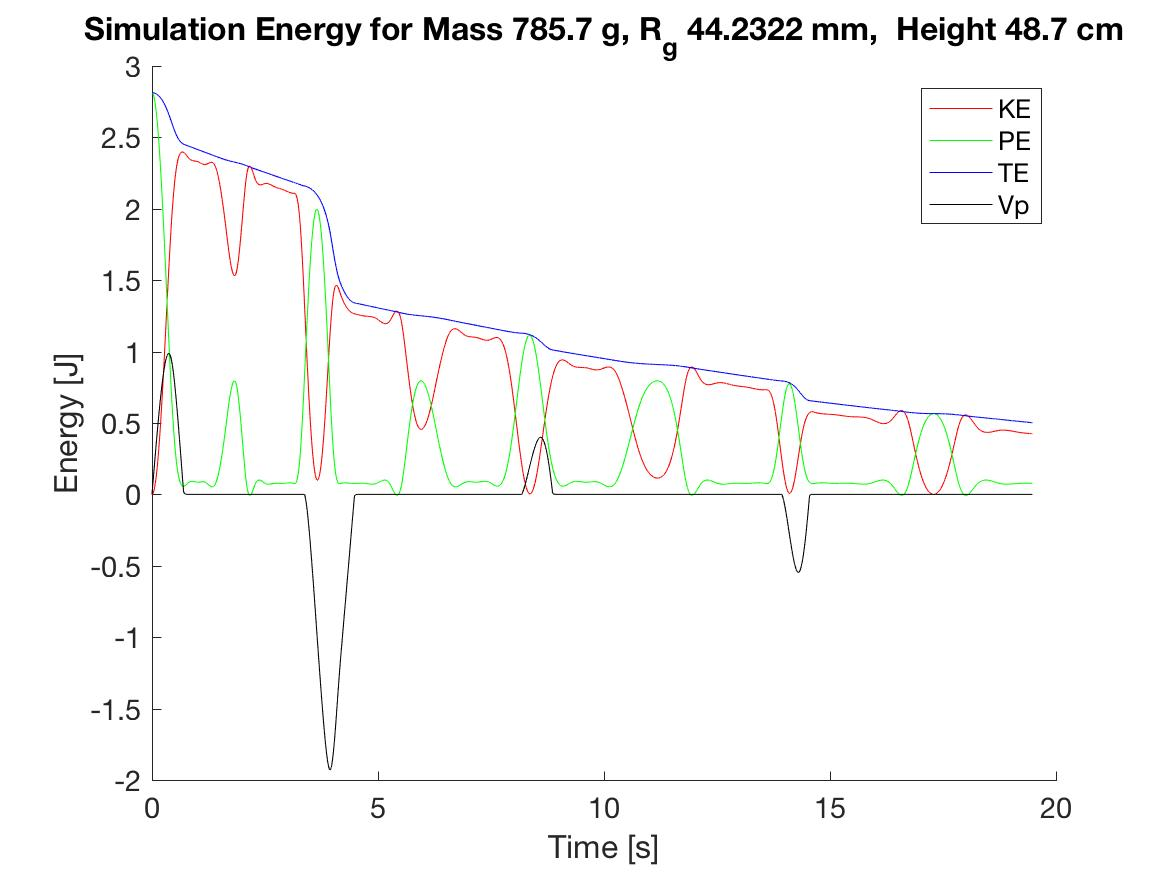
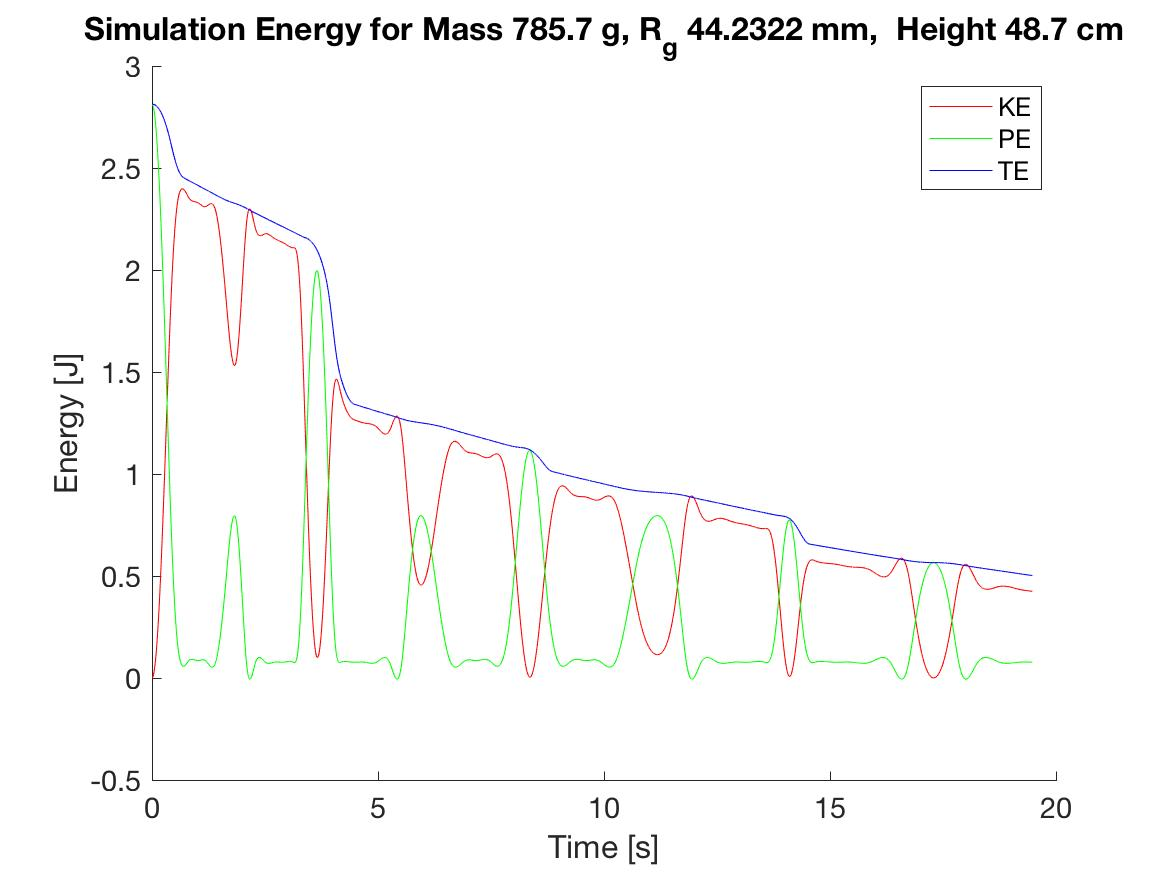
added comments

diff --git a/RollCarCode/Model Code/ConfigurationChecker.m b/RollCarCode/Model Code/ConfigurationChecker.m
@@ -1,3 +1,4 @@
+%% Sets up all of the variables
 clear all; close all; clc;
 tic;
 ComputerOwner = 'Colin';
@@ -172,7 +173,7 @@ PotentialEnergy = m*9.81*ysim;
 TotalEnergy = KineticEnergy + PotentialEnergy;
 
 save([fileName,'.mat']);
-%% plot lots of figures to determine if simulation is physical or not
+%% Plot lots of figures to determine if simulation is physical or not
 close all;
 saveFig=true;
 
@@ -188,13 +189,13 @@ hold on;
 plot(tsim,KineticEnergy,'r');
 plot(tsim,PotentialEnergy,'g');
 plot(tsim,TotalEnergy,'b');
-plot(tsim,sdot-rw*thetadot,'k');
+%plot(tsim,sdot-rw*thetadot,'k');
 titstr = sprintf(['Simulation Energy for ' titleBase]);%ConfigPick num: %i',ConfigPick);
 title(titstr);
 set(gca,'FontSize',14);
 xlabel('Time [s]')
 ylabel('Energy [J]')
-legend('KE','PE','TE','Vp','Location','Best')
+legend('KE','PE','TE','Location','Best')
 
 if saveFig
     saveas(gcf,...

diff --git a/RollCarCode/Model Code/ME107RollCarMLOpt.m b/RollCarCode/Model Code/ME107RollCarMLOpt.m
@@ -1,5 +1,5 @@
 clear all; close all;clc;
-%% Things Requiring changeing
+%% Things Requiring changing
 % implemented owners names = 'Patrick','Colin','Jay'
 % put in your own filepath and add your name to the list
 
